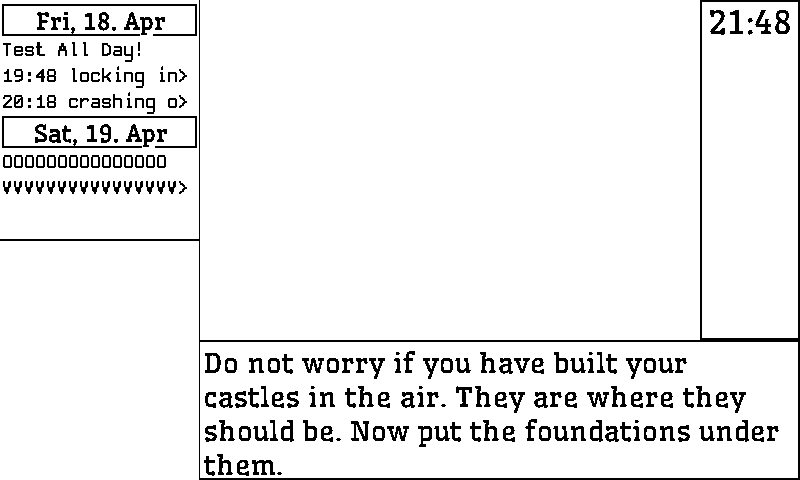
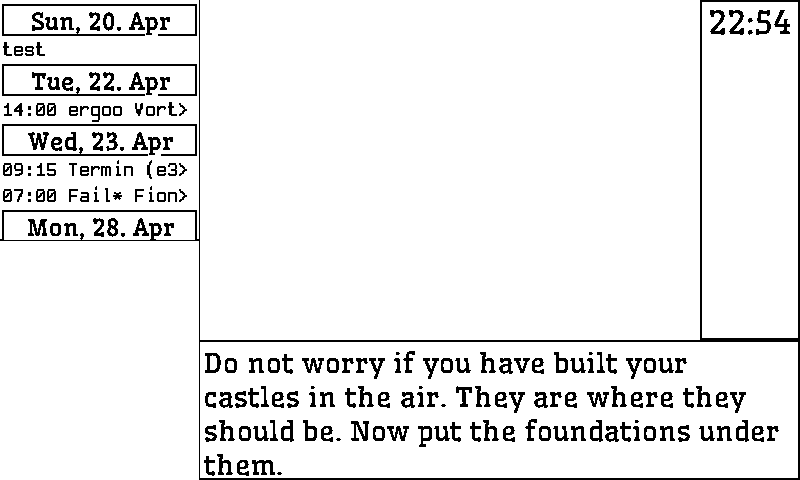
feat: Working gcal integration

Changed region(s): [[0.0, 0.0312, 0.25, 0.5], [0.9062, 0.0, 1.0, 0.0625]]

diff --git a/igen/src/calendar.rs b/igen/src/calendar.rs
@@ -13,6 +13,7 @@ use std::io::{BufRead, BufReader, Write};
 use std::net::TcpListener;
 use std::ops::Add;
 use std::path::Path;
+use std::str::FromStr;
 
 #[derive(Debug)]
 pub enum Time {
@@ -36,6 +37,64 @@ struct StoredToken {
 pub struct CalendarHandler {
     google_config: GoogleConfig,
     http_client: reqwest::blocking::Client,
+    calendar_list: Option<CalendarListResponse>,
+}
+
+#[derive(Debug, Deserialize)]
+struct EventsResponse {
+    items: Vec<GoogleEvent>,
+}
+
+#[derive(Debug, Deserialize)]
+struct GoogleEvent {
+    id: String,
+    summary: String,
+    start: GoogleEventDateTime,
+    end: GoogleEventDateTime,
+}
+
+impl From<GoogleEvent> for Event {
+    fn from(value: GoogleEvent) -> Self {
+        // if there is a date, it is an all-day event
+        println!("{:?}", &value);
+        let time = if let Some(start_date) = value.start.date {
+            AllDay(chrono::NaiveDate::from_str(&start_date).expect("Could not parse date"))
+        } else {
+            let st = chrono::DateTime::parse_from_rfc3339(
+                value
+                    .start
+                    .date_time
+                    .expect("Timed Event must have start time")
+                    .as_str(),
+            )
+            .expect("Could not parse event start time")
+            .to_utc();
+            let et = chrono::DateTime::parse_from_rfc3339(
+                value
+                    .end
+                    .date_time
+                    .expect(
+                        "Timed \
+            Event must have end time",
+                    )
+                    .as_str(),
+            )
+            .expect("Could not parse event end time")
+            .to_utc();
+            Timed(st, et.signed_duration_since(st))
+        };
+        Event {
+            title: value.summary,
+            time,
+        }
+    }
+}
+
+#[derive(Debug, Deserialize)]
+struct GoogleEventDateTime {
+    #[serde(default, rename(deserialize = "dateTime"))]
+    date_time: Option<String>,
+    date: Option<String>,
 }
 
 #[derive(Debug, Deserialize)]
@@ -76,6 +135,7 @@ impl CalendarHandler {
                 .redirect(reqwest::redirect::Policy::none())
                 .build()
                 .expect("HTTP client could not be constructed"),
+            calendar_list: None,
         };
         cl.load_or_refresh_token();
         cl
@@ -213,7 +273,66 @@ impl CalendarHandler {
         .expect("Could not store token");
     }
 
-    pub fn retrieve_calendar_events(&self) {
+    fn retrieve_calendar_events(&mut self) -> Vec<Event> {
+        if self.calendar_list.is_none() {
+            self.fetch_calenders()
+        }
+
+        let clr = self.calendar_list.as_ref().expect("Calendar list unset");
+
+        let mut combined_events: Vec<Event> = vec![];
+
+        clr.items
+            .iter()
+            .filter(|cal| self.google_config.calendar_list.contains(&cal.summary))
+            .for_each(|cal| {
+                let id = &cal.id;
+                for event in self.fetch_events_for_calendar(id) {
+                    println!("{:?}", &event);
+                    combined_events.push(event);
+                }
+            });
+
+        combined_events
+    }
+
+    fn fetch_events_for_calendar(&self, cal_id: &str) -> Vec<Event> {
+        let events_url = format!(
+            "https://www.googleapis.com/calendar/v3/calendars/{}/events",
+            cal_id
+        );
+
+        let gevents = self
+            .http_client
+            .get(events_url)
+            .header(
+                reqwest::header::AUTHORIZATION,
+                format!("Bearer {}", self.load_or_refresh_token()),
+            )
+            .query(&[
+                (
+                    "timeMin",
+                    chrono::Local::now().to_utc().to_rfc3339().as_str(),
+                ),
+                ("singleEvents", "true"),
+                ("orderBy", "startTime"),
+                ("maxResults", "10"),
+            ])
+            .send()
+            .expect("Could not send list calendar request");
+
+        let gevents = gevents
+            .json::<EventsResponse>()
+            .unwrap_or_else(|_| panic!("Could not deserialize events response, cal: {}", cal_id));
+
+        let mut events: Vec<Event> = vec![];
+        for gevent in gevents.items {
+            events.push(Event::from(gevent));
+        }
+        events
+    }
+
+    fn fetch_calenders(&mut self) {
         const LIST_CALENDARS: &str = "https://www.googleapis.com/calendar/v3/users/me/calendarList";
 
         let calenders = self
@@ -229,60 +348,10 @@ impl CalendarHandler {
         let clr = calenders
             .json::<CalendarListResponse>()
             .expect("Could not deserialize calendars to json");
-
-        for cle in clr.items {
-            println!("{:?}", cle);
-        }
+        self.calendar_list = Some(clr)
     }
 
-    pub fn fetch(&self) -> Vec<Event> {
-        self.retrieve_calendar_events();
-        vec![
-            Event {
-                title: "Test All Day!".to_string(),
-                time: AllDay(chrono::Local::now().date_naive()),
-            },
-            Event {
-                title: "OOOOOOOOOOOOOOO".to_string(),
-                time: AllDay(
-                    chrono::Local::now()
-                        .add(chrono::TimeDelta::days(1))
-                        .date_naive(),
-                ),
-            },
-            Event {
-                title: "VVVVVVVVVVVVVVVVVVVVVV".to_string(),
-                time: AllDay(
-                    chrono::Local::now()
-                        .add(chrono::TimeDelta::days(1))
-                        .date_naive(),
-                ),
-            },
-            Event {
-                title: "Test Timed!".to_string(),
-                time: Timed(
-                    chrono::Local::now()
-                        .add(chrono::TimeDelta::days(2))
-                        .with_timezone(&chrono::Utc),
-                    chrono::TimeDelta::minutes(63),
-                ),
-            },
-            Event {
-                title: "locking in..".to_string(),
-                time: Timed(
-                    chrono::Local::now().with_timezone(&chrono::Utc),
-                    chrono::TimeDelta::minutes(63),
-                ),
-            },
-            Event {
-                title: "crashing out..".to_string(),
-                time: Timed(
-                    chrono::Local::now()
-                        .with_timezone(&chrono::Utc)
-                        .add(chrono::TimeDelta::minutes(30)),
-                    chrono::TimeDelta::minutes(63),
-                ),
-            },
-        ]
+    pub fn fetch(&mut self) -> Vec<Event> {
+        self.retrieve_calendar_events()
     }
 }

diff --git a/igen/src/dash.rs b/igen/src/dash.rs
@@ -76,7 +76,7 @@ impl Dash {
                 }
             });
 
-        const DAYS_SHOWN: usize = 2;
+        const DAYS_SHOWN: usize = 4;
         const EVENTS_PER_DAY: usize = 3;
         const DATE_EVENT_PADDING: usize = 2;
         const DATE_HEIGHT: usize = 32;

diff --git a/igen/src/settings.rs b/igen/src/settings.rs
@@ -8,6 +8,7 @@ pub struct GoogleConfig {
     pub auth_uri: String,
     pub redirect_uri: String,
     pub token_uri: String,
+    pub calendar_list: Vec<String>,
 }
 
 #[derive(Serialize, Deserialize, Debug, Clone)]
